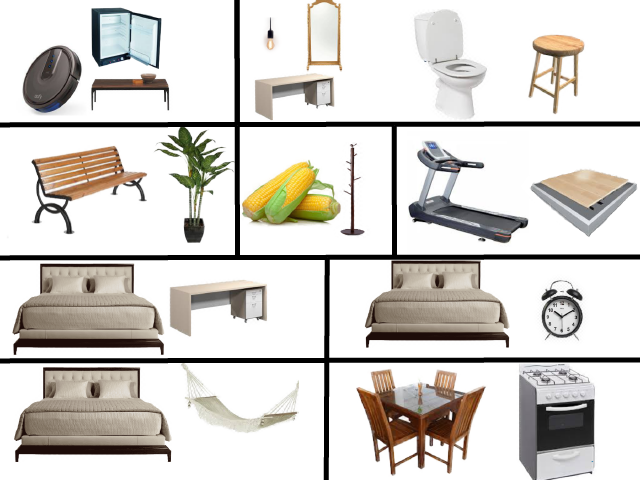
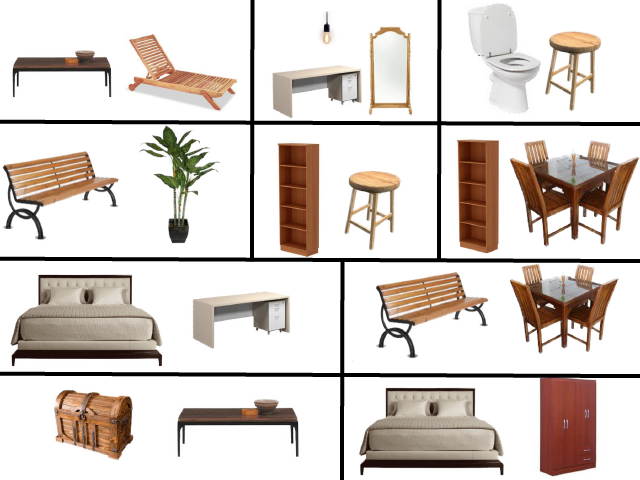
Encargo Grupal

diff --git a/docs/encargo-grupal/index.html b/docs/encargo-grupal/index.html
@@ -4,7 +4,7 @@
 <head>
   <meta charset="utf-8">
   <meta http-equiv="x-ua-compatible" content="ie=edge">
-  <title>Encargo 0 - Rodrigo Jimenez G - Taller Producto 2021</title>
+  <title>Encargo Grupal - Rodrigo Jimenez G - Taller Producto 2021</title>
   <meta name="viewport" content="width=device-width, initial-scale=1">
   
   <link rel="icon" href="https://rodrigojimenezg.github.io/favicon.png">
@@ -90,7 +90,7 @@
   <h4>Docs</h4>
   <ul>
     
-    <li class="active ">
+    <li class="">
       <a href="https://rodrigojimenezg.github.io/docs/encargo-0/">Encargo 0</a>
     </li>
     
@@ -102,7 +102,7 @@
       <a href="https://rodrigojimenezg.github.io/docs/encargo-1/">Encargo 1</a>
     </li>
     
-    <li class="">
+    <li class="active ">
       <a href="https://rodrigojimenezg.github.io/docs/encargo-grupal/">Encargo Grupal</a>
     </li>
     
@@ -117,57 +117,60 @@
         </div>
         <div class="col-12 col-md-9">
           
-<h1 class="title">Encargo 0</h1>
+<h1 class="title">Encargo Grupal</h1>
 <div class="content ">
-  <h1 id="biografía">Biografía.</h1>
-<p>Soy Rodrigo Jiménez estudiante de diseño de la UAI, en mi tiempo libre disfruto de escuchar música y y ver películas. Del diseño me atrae el area del diseño industrial y la arquitectura. Una meta que quiero cumplir es una vez egresado vivir en el extranjero y así poder seguir perfeccionandome para ser parte de proyectos importantes.</p>
-<h1 id="illustrator">Illustrator.</h1>
+  <h3 id="heading"></h3>
+<p><img src="/img/Collage...png" alt="Imagen Simple">
+La propuesta de hibridación consta de la mezcla entre un sillón, una estantería, plantas y libros. La idea de sumar esto en un solo mobiliario es poder aprovechar de mejor manera el espacio utilizado por el sillón en nuestro living y de esta forma obtener un mobiliario que sirva ya sea de almacenamiento o de decoración, debido a esto es que también agregamos a la hibridación los libros y las plantas que son los elementos que ocuparían los espacios del estante y definirían su uso , aunque la gama de opciones es amplía y se podrían escoger más.
+Este mobiliario se nos ocurre situarlo en livings con gran espacio de forma que la parte de atrás del sillón esté a la vista, por otro lado también se podría dar la opción de implementarlo en plazas o parques como mobiliario público y de esta manera crear una librería gratuita donde participe la comunidad aledaña compartiendo sus libros o también si es que nos enfocamos más en usar las repisas como macetero , lograr mimetizar lo que sería una banca con las áreas verdes.</p>
+<hr>
+<h1 id="materiales">Materiales</h1>
 <p>
 <link rel="stylesheet" href="/css/hugo-easy-gallery.css" />
 
 <div class="gallery caption-position-bottom caption-effect-slide hover-effect-zoom hover-transition" itemscope itemtype="http://schema.org/ImageGallery">
 				<div class="box">
 				  <figure itemprop="associatedMedia" itemscope itemtype="http://schema.org/ImageObject">
-				    <div class="img" style="background-image: url('https://rodrigojimenezg.github.io//img/AI//AI-CAR.png');" >
-				      <img itemprop="thumbnail" src="https://rodrigojimenezg.github.io//img/AI//AI-CAR.png" alt="Ai car" />
+				    <div class="img" style="background-image: url('https://rodrigojimenezg.github.io//img/Materiales//estilo%20industrial%20moderno.png');" >
+				      <img itemprop="thumbnail" src="https://rodrigojimenezg.github.io//img/Materiales//estilo%20industrial%20moderno.png" alt="Estilo industrial moderno" />
 				    </div>
 			      <figcaption>
-		          <p>Ai car</p>
+		          <p>Estilo industrial moderno</p>
 			      </figcaption>
-				    <a href="https://rodrigojimenezg.github.io//img/AI//AI-CAR.png" itemprop="contentUrl"></a>
+				    <a href="https://rodrigojimenezg.github.io//img/Materiales//estilo%20industrial%20moderno.png" itemprop="contentUrl"></a>
 				  </figure>
 				</div>
 				<div class="box">
 				  <figure itemprop="associatedMedia" itemscope itemtype="http://schema.org/ImageObject">
-				    <div class="img" style="background-image: url('https://rodrigojimenezg.github.io//img/AI//AI-Coffee.png');" >
-				      <img itemprop="thumbnail" src="https://rodrigojimenezg.github.io//img/AI//AI-Coffee.png" alt="Ai coffee" />
+				    <div class="img" style="background-image: url('https://rodrigojimenezg.github.io//img/Materiales//estilo%20para%20uso%20publico.png');" >
+				      <img itemprop="thumbnail" src="https://rodrigojimenezg.github.io//img/Materiales//estilo%20para%20uso%20publico.png" alt="Estilo para uso publico" />
 				    </div>
 			      <figcaption>
-		          <p>Ai coffee</p>
+		          <p>Estilo para uso publico</p>
 			      </figcaption>
-				    <a href="https://rodrigojimenezg.github.io//img/AI//AI-Coffee.png" itemprop="contentUrl"></a>
+				    <a href="https://rodrigojimenezg.github.io//img/Materiales//estilo%20para%20uso%20publico.png" itemprop="contentUrl"></a>
 				  </figure>
 				</div>
 				<div class="box">
 				  <figure itemprop="associatedMedia" itemscope itemtype="http://schema.org/ImageObject">
-				    <div class="img" style="background-image: url('https://rodrigojimenezg.github.io//img/AI//AI-House.png');" >
-				      <img itemprop="thumbnail" src="https://rodrigojimenezg.github.io//img/AI//AI-House.png" alt="Ai house" />
+				    <div class="img" style="background-image: url('https://rodrigojimenezg.github.io//img/Materiales//estilo%20rustico.png');" >
+				      <img itemprop="thumbnail" src="https://rodrigojimenezg.github.io//img/Materiales//estilo%20rustico.png" alt="Estilo rustico" />
 				    </div>
 			      <figcaption>
-		          <p>Ai house</p>
+		          <p>Estilo rustico</p>
 			      </figcaption>
-				    <a href="https://rodrigojimenezg.github.io//img/AI//AI-House.png" itemprop="contentUrl"></a>
+				    <a href="https://rodrigojimenezg.github.io//img/Materiales//estilo%20rustico.png" itemprop="contentUrl"></a>
 				  </figure>
 				</div>
 				<div class="box">
 				  <figure itemprop="associatedMedia" itemscope itemtype="http://schema.org/ImageObject">
-				    <div class="img" style="background-image: url('https://rodrigojimenezg.github.io//img/AI//Palta%20-1.png');" >
-				      <img itemprop="thumbnail" src="https://rodrigojimenezg.github.io//img/AI//Palta%20-1.png" alt="Palta 1" />
+				    <div class="img" style="background-image: url('https://rodrigojimenezg.github.io//img/Materiales//estilo%20%c3%a9tnico.png');" >
+				      <img itemprop="thumbnail" src="https://rodrigojimenezg.github.io//img/Materiales//estilo%20%c3%a9tnico.png" alt="Estilo étnico" />
 				    </div>
 			      <figcaption>
-		          <p>Palta 1</p>
+		          <p>Estilo étnico</p>
 			      </figcaption>
-				    <a href="https://rodrigojimenezg.github.io//img/AI//Palta%20-1.png" itemprop="contentUrl"></a>
+				    <a href="https://rodrigojimenezg.github.io//img/Materiales//estilo%20%c3%a9tnico.png" itemprop="contentUrl"></a>
 				  </figure>
 				</div>
 </div>
@@ -231,18 +234,34 @@
     </div>
     </div>
 </div>
-
-Illustraciones vectoriales. Durante el verano empecé a incursionar en está área para poder ampliar mis concimientos en el diseño gráfico, ya que creo que es una rama muy importante para el branding de productos</p>
-<h1 id="modelación">Modelación.</h1>
-<p><img src="/img/JBLRender3.png" alt="Imagen Simple">
-Idea conceptual de un parlante modelado en Rhino.</p>
-<h1 id="max-8">Max 8.</h1>
-<p>
-<div style="position: relative; padding-bottom: 56.25%; height: 0; overflow: hidden;">
-  <iframe src="https://www.youtube.com/embed/sX_K0YGw5eY" style="position: absolute; top: 0; left: 0; width: 100%; height: 100%; border:0;" allowfullscreen title="YouTube Video"></iframe>
-</div>
-
-Este es el proyecto final con Max 8. Para lograr esta producción audiovisual se usaron como parámetros los números arrojados por un sensor de temperatura DS18B20, este sensor cambiaba la variable que contenía el color rojo y a medida de que sube la temperatura cambia la paleta de colores del shader. Luego otro parámetro creado fue gracias a la utilización de un sensor ultrasónico y que a medida que uno acercaba un objeto al sensor este reconocía una distancia muy chica y con ese valor cambiaba las formas del shader toy a unas mas triangulares, mientras que cuando uno alejaba el objeto hacía figuras circulares. Por ultimo, creé un parámetro con los valores que entregaba la música, estos valores decimales hacían que el shader vibrara y controlaba la rapidez con que hacia el loop.</p>
+</p>
+<ol>
+<li>Estilo industrial moderno; Materiales: Hierro forjado, porque es un material extremadamente duro y pesado, muy resistente, tiene una alta durabilidad y el precio es accesible. Además, es acorde al estilo industrial moderno, y es un material que no aburre a la vista y es fácil de combinar. Tela algodón; ya que es un material cómodo, flexible, resistente al rasgado y no acumula electricidad estática.</li>
+<li>Estilo para uso publico; Materiales: Concreto, porque el material es duradero y resistente, ya que puede ser sometido al agua y a altas temperaturas sin perder sus propiedades, especial para su uso en plazas y parques públicos.</li>
+<li>Estilo rustico; Materiales: Bamboo, porque es un material duradero, resistente a cambios de temperatura, ligero, ecológico y barato en su producción. Además, este tipo de material se utiliza en muebles con estilo rústico. Tela algodón; ya que es un material cómodo, flexible, resistente al rasgado y no acumula electricidad estática.</li>
+<li>Estilo étnico; Materiales: Madera natural; ya que es el material predominante del estilo étnico, por lo que no se pierde la esencia de este estilo. Además, la madera es un material muy firme y no es tan costosa su producción, lo que hace el producto más accesible. Textil colorido indio; porque es un material firme, natural y acorde con el estilo.</li>
+</ol>
+<hr>
+<h1 id="tilt">Tilt</h1>
+<p>Estudio Británico que buscando crear un espacio de lectura diseñó &ldquo;Openbook&rdquo;.
+<img src="/img/Openbook..jpg" alt="Imagen Simple"></p>
+<h1 id="treebox">Treebox</h1>
+<p>Empresa Británica que tiene por objetivo crear soluciones urbanas con un enfoque en las áreas verdes.
+<img src="/img/Treebox.jpg" alt="Imagen Simple"></p>
+<h1 id="biofiltro-en-parque-high-lane-nueva-york">Biofiltro en Parque High Lane, Nueva York</h1>
+<p>Este parque diseñado por la firma Diller Scofidio + Renfro, mezcla las áreas verdes con el mobiliario urbano y así renovar el espacio público en nueva york.
+<img src="/img/Parque.jpg" alt="Imagen Simple"></p>
+<h1 id="renders">Renders.</h1>
+<h2 id="bancao-indoor">Bancao Indoor</h2>
+<p><img src="/img/SillonEstant..jpeg" alt="Imagen Simple">
+<img src="/img/SillonEstante..jpeg" alt="Imagen Simple"></p>
+<h2 id="bancao-outdoor">Bancao Outdoor</h2>
+<p><img src="/img/BancaVerde.jpeg" alt="Imagen Simple">
+<img src="/img/BancaV.jpeg" alt="Imagen Simple"></p>
+<h2 id="espacio-libro">Espacio Libro</h2>
+<p><img src="/img/EspacioLibro.jpeg" alt="Imagen Simple">
+Naming de la marca: Orbe
+Visión de la marca: En Orbe , nuestro objetivo es entregar mobiliario de interiores y públlicos , donde nuestros clientes disfruten de la mezcla entre las plantas y los libros.</p>
 
 </div>
 </div>

diff --git a/docs/encargo-1/index.html b/docs/encargo-1/index.html
@@ -103,6 +103,10 @@
     </li>
     
     <li class="">
+      <a href="https://rodrigojimenezg.github.io/docs/encargo-grupal/">Encargo Grupal</a>
+    </li>
+    
+    <li class="">
       <a href="https://rodrigojimenezg.github.io/docs/markdown/">Ejemplos Markdown</a>
     </li>
     
@@ -235,28 +239,6 @@
 
 
 <div class="gallery caption-position-bottom caption-effect-slide hover-effect-zoom hover-transition" itemscope itemtype="http://schema.org/ImageGallery">
-				<div class="box">
-				  <figure itemprop="associatedMedia" itemscope itemtype="http://schema.org/ImageObject">
-				    <div class="img" style="background-image: url('https://rodrigojimenezg.github.io//img/ComedorEstante//Comedor..png');" >
-				      <img itemprop="thumbnail" src="https://rodrigojimenezg.github.io//img/ComedorEstante//Comedor..png" alt="Comedor" />
-				    </div>
-			      <figcaption>
-		          <p>Comedor</p>
-			      </figcaption>
-				    <a href="https://rodrigojimenezg.github.io//img/ComedorEstante//Comedor..png" itemprop="contentUrl"></a>
-				  </figure>
-				</div>
-				<div class="box">
-				  <figure itemprop="associatedMedia" itemscope itemtype="http://schema.org/ImageObject">
-				    <div class="img" style="background-image: url('https://rodrigojimenezg.github.io//img/ComedorEstante//Estante.png');" >
-				      <img itemprop="thumbnail" src="https://rodrigojimenezg.github.io//img/ComedorEstante//Estante.png" alt="Estante" />
-				    </div>
-			      <figcaption>
-		          <p>Estante</p>
-			      </figcaption>
-				    <a href="https://rodrigojimenezg.github.io//img/ComedorEstante//Estante.png" itemprop="contentUrl"></a>
-				  </figure>
-				</div>
 </div>
  
 

diff --git a/docs/index.html b/docs/index.html
@@ -103,6 +103,10 @@
     </li>
     
     <li class="">
+      <a href="https://rodrigojimenezg.github.io/docs/encargo-grupal/">Encargo Grupal</a>
+    </li>
+    
+    <li class="">
       <a href="https://rodrigojimenezg.github.io/docs/markdown/">Ejemplos Markdown</a>
     </li>
     
@@ -140,6 +144,13 @@
 <div class="summary mb-2">
   
   <h2 class="title-summary"><a href="https://rodrigojimenezg.github.io/docs/encargo-1/">Encargo 1</a></h2>
+  <p>Uso de los Shortcodes para agregar contenido en el sitio de documentación.</p>
+</div>
+
+
+<div class="summary mb-2">
+  
+  <h2 class="title-summary"><a href="https://rodrigojimenezg.github.io/docs/encargo-grupal/">Encargo Grupal</a></h2>
   <p>Uso de los Shortcodes para agregar contenido en el sitio de documentación.</p>
 </div>
 

diff --git a/docs/markdown/index.html b/docs/markdown/index.html
@@ -102,6 +102,10 @@
       <a href="https://rodrigojimenezg.github.io/docs/encargo-1/">Encargo 1</a>
     </li>
     
+    <li class="">
+      <a href="https://rodrigojimenezg.github.io/docs/encargo-grupal/">Encargo Grupal</a>
+    </li>
+    
     <li class="active ">
       <a href="https://rodrigojimenezg.github.io/docs/markdown/">Ejemplos Markdown</a>
     </li>

diff --git a/docs/ejemplo/index.html b/docs/ejemplo/index.html
@@ -103,6 +103,10 @@
     </li>
     
     <li class="">
+      <a href="https://rodrigojimenezg.github.io/docs/encargo-grupal/">Encargo Grupal</a>
+    </li>
+    
+    <li class="">
       <a href="https://rodrigojimenezg.github.io/docs/markdown/">Ejemplos Markdown</a>
     </li>
     
